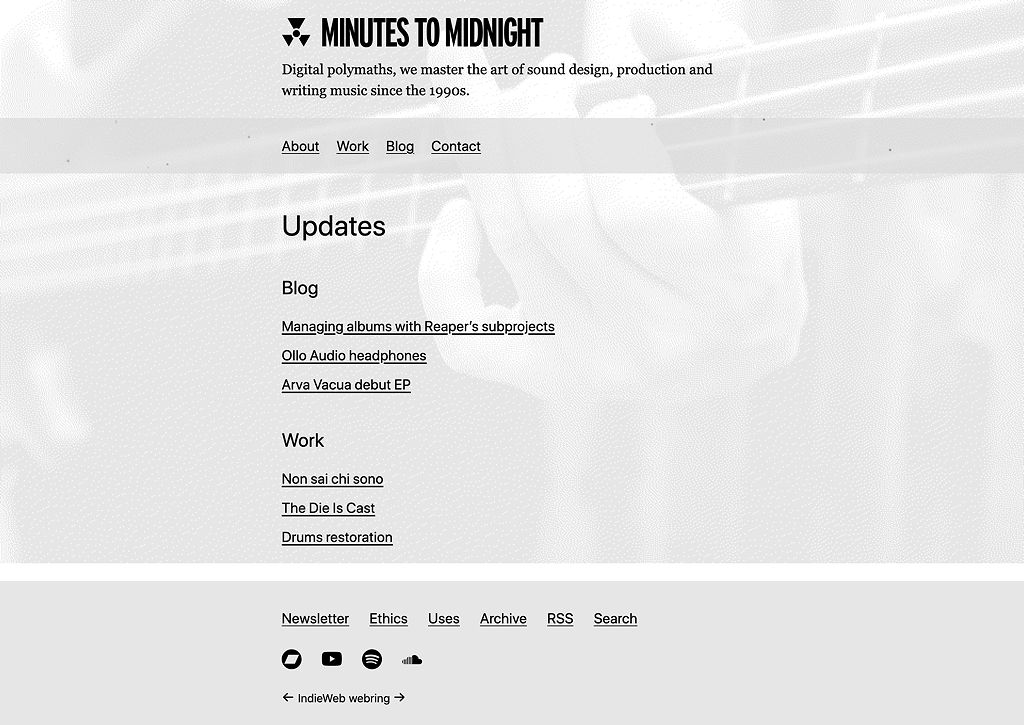
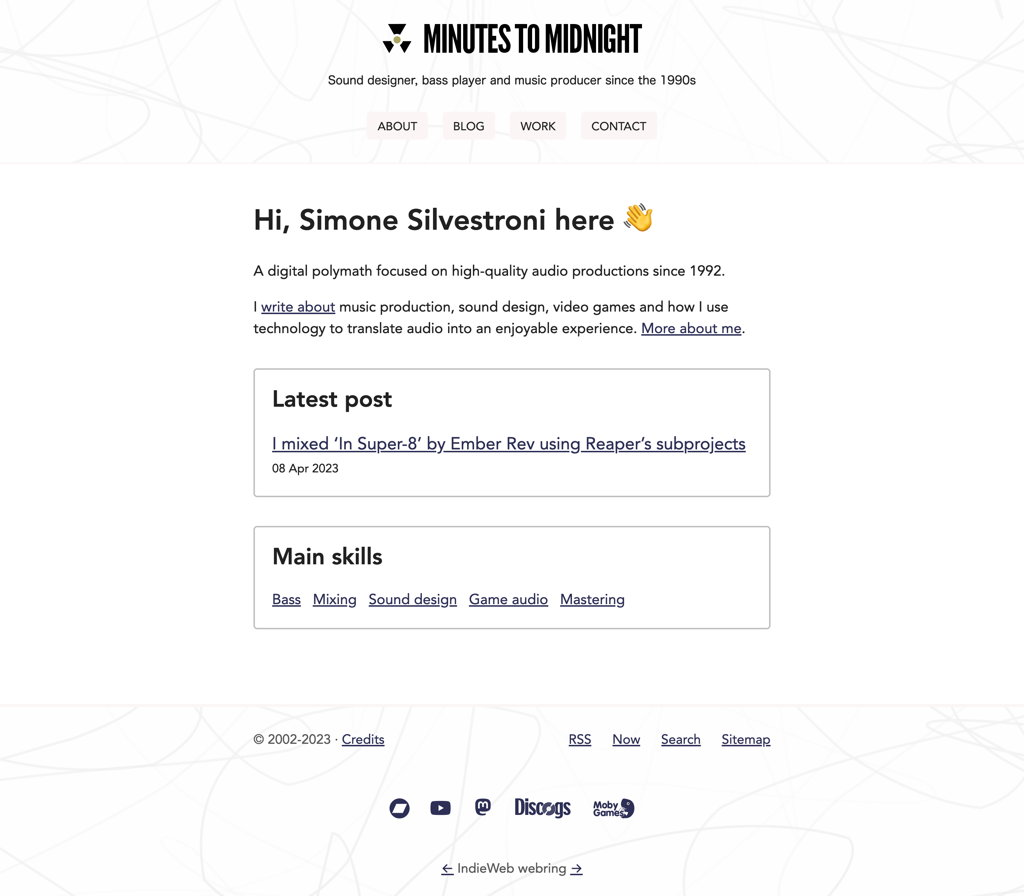
Refreshed projects

diff --git a/_webdesign/minutes-to-midnight.md b/_webdesign/minutes-to-midnight.md
@@ -9,26 +9,25 @@ skillset:
  - jekyll
  - liquid
  - markdown
- - sass
- - postCSS
+ - html
+ - css
  - netlify
- - node
- - bootstrap 5
  - git
  - bash
  - microformats
  - webmentions
+ - indieweb
 description: 'Why my current website, built with Jekyll and Netlify, eclipses the previous one on IA, performance, sustainability and maintenance.'
 excerpt: false
 summary: '<strong>Migrating from WordPress</strong> to a static site generator has been a blessing. In this case study, I explain why my current website, built on Jekyll and hosted on Netlify, eclipses the previous one on <abbr title="Information Architecture">IA</abbr>, performance, sustainability and maintenance.'
 toc: true
 featimage: true
 featimage-url: '/assets/images/minutes-to-midnight.jpg'
-featimage-height: '574'
+featimage-height: '896'
 performance: true
 googlescore: '100'
 speedindex: '0.4 seconds'
-pageweight: '100Kb (uncompressed)'
+pageweight: '63Kb (uncompressed)'
 site-is-live: true
 live-url: 'https://minutestomidnight.co.uk'
 permalink: '/projects/web-design/minutes-to-midnight/'
@@ -64,36 +63,36 @@ To avoid too many SEO issues, I used a redirection feature provided by Netlify i
 https://blog.minutestomidnight.co.uk/* https://minutestomidnight.co.uk/blog/:splat 301!
 ```
 
-I then [proceeded to importing](https://import.jekyllrb.com/docs/wordpress/) posts and pages. Since I decided to refactor taxonomy, I bypassed it. A basic Jekyll-based website has a simple directory tree. In my case (I'm omitting redundant and subsequent additions):
+I then [proceeded to importing](https://import.jekyllrb.com/docs/wordpress/) posts and pages. A basic Jekyll website has a simple directory tree. In my case (I'm omitting redundant and subsequent additions):
 
 ```
 . 
 ├── 📂 _data
 │    ├── 📄 nav-main.yml
 │    ├── 📄 nav-social.yml
-│    └── 📄 <etc>
+│    └── 📄 [...]
 ├── 📂 _drafts
 │    ├── 📝 test.md
-│    └── 📝 <etc>
+│    └── 📝 [...]
 ├── 📂 _includes
-│    ├── 📄 pattern-button.md
-│    ├── 📄 site-seo.html
-│    └── 📄 <etc>
+│    ├── 📄 pattern-figure.md
+│    ├── 📄 site-header.html
+│    └── 📄 [...]
 ├── 📂 _layouts
 │    ├── 📄 blog.html
 │    ├── 📄 default.html
-│    └── 📄 <etc>
+│    └── 📄 [...]
 ├── 📂 _pages
 │    ├── 📂 projects
 │    │    ├── 📝 index.md
 │    │    └── 📝 <etc>
 │    ├── 📝 about.md
 │    ├── 📝 archive.md
-│    └── 📝 <etc>
+│    └── 📝 [...]
 ├── 📂 _posts
 │    ├── 📝 2021-08-13-berlin-91.md
 │    ├── 📝 2022-03-02-bandcamp-joins-epicgames.md
-│    └── 📝 <etc>
+│    └── 📝 [...]
 ├── 📁 _site
 ├── 📂 assets
 │    ├── 📂 css
@@ -101,17 +100,9 @@ I then [proceeded to importing](https://import.jekyllrb.com/docs/wordpress/) pos
 │    │    └── 📄 m2m.min.css
 │    ├── 📂 images
 │    │    ├── 🌠 m2m-og-image.jpg
-│    │    ├── 🌠 watercolor.png
-│    │    └── 🌠 <etc>
+│    │    └── 🌠 [...]
 │    └── 📁 js
-├── 📂 category
 ├── 📂 tag
-├── 📂 sass
-│    ├── 📁 bootstrap
-│    ├── 📄 _m2m-functions.scss
-│    ├── 📄 _m2m-theme.scss
-│    ├── 📄 _<etc>
-│    └── 📄 m2m.scss
 ├── 📄 .gitignore
 ├── 📝 404.html
 ├── 📄 _config.yml
@@ -119,7 +110,8 @@ I then [proceeded to importing](https://import.jekyllrb.com/docs/wordpress/) pos
 ├── 🌠 favicon.ico
 ├── 📄 Gemfile
 ├── 📝 index.html
-├── 📄 package.json
+├── 📄 robots.txt
+├── 📄 sitemap.xml
 .
 
 ```
@@ -154,7 +146,7 @@ An array of components are collected in the `_includes/` folder. They can be sit
 My simple module to embed YouTube videos, called `pattern-video.html`:
 
 ```liquid
-{% raw %}<div class="video iframe-container{{ include.margin | default: "my-5" | prepend: ' ' }}">
+{% raw %}<div class="video iframe-container">
   <iframe loading="lazy" src="https://www.youtube-nocookie.com/embed/{{ include.id }}" frameborder="0" allowfullscreen title="{{ include.title | default: "Video" }}"></iframe>
 </div>{% endraw %}
 ```
@@ -181,7 +173,7 @@ Posts, notes, pages and projects are written in Markdown. Jekyll's [Kramdown](ht
 
 ## Design
 
-The theme is handcrafted by applying styles to the layouts. I'm using a subset of Bootstrap's SASS source as a base, with my theme and functionality built on top of it. I'm planning to ditch Bootstrap in the near future for a custom-made micro framework written in pure traditional CSS with a utility-first classes approach. Once the SASS is compiled, the build process takes care of various optimizations. I only load the minified stylesheet on production:
+The theme is handcrafted by applying styles to the layouts. I'm using [Simple CSS](https://simplecss.org) as a base, with my custom components built in plain CSS on top of it. I only load a minified stylesheet on production:
 
 ```html
 {% raw %}{% if jekyll.environment == "production" -%}
@@ -227,24 +219,18 @@ I get into proper SEO territory next, by including `site-seo.html`, which is mad
 - [Open Graph](https://ogp.me/). This is the content appearing in the 'card' which unfurls when links from my website are shared to Facebook, LinkedIn, Twitter and instant messengers like Telegram or WhatsApp. I check for `description` and the presence of a featured image, again with fallbacks.
   ```html
   {% raw %}<!-- Open graph -->
-  <meta property="og:title" content="{%- include site-meta-title.html -%}" />
-  <meta property="og:url" content="{{ page.url | prepend: site.url }}" />
-  <meta property="og:type" content="website" />
-  <meta property="og:site_name" content="{{ site.title }}" />
-  <meta property="og:description" content="{% if page.description %}{{ page.description }}{% elsif note.description %}{{ note.description }}{% else %}{{ site.description }}{% endif %}" />
-  <meta property="og:image" content="{% if page.featimage %}{{ site.url }}{{ page.featimage-url }}{% else -%}{{ site.logo | prepend: site.url }}{% endif %}" />
+  <meta property="og:title" content="{%- include site-meta-title.html -%}">
+  <meta property="og:url" content="{{ page.url | prepend: site.url }}">
+  <meta property="og:type" content="website">
+  <meta property="og:site_name" content="{{ site.title }}">
+  <meta property="og:description" content="{% if page.description %}{{ page.description }}{% elsif note.description %}{{ note.description }}{% else %}{{ site.description }}{% endif %}">
+  <meta property="og:image" content="{% if page.featimage %}{{ site.url }}{{ page.featimage-url }}{% else -%}{{ site.logo | prepend: site.url }}{% endif %}">
   <!-- LinkedIn -->
-  <meta prefix="og: https://ogp.me/ns#" property="og:title" content="{%- include site-meta-title.html -%}" />
-  <meta prefix="og: https://ogp.me/ns#" property="og:type" content="website" />
-  <meta prefix="og: https://ogp.me/ns#" property="og:description" content="{% if page.description %}{{ page.description }}{% elsif note.description %}{{ note.description }}{% else %}{{ site.description }}{% endif %}" />
-  <meta prefix="og: https://ogp.me/ns#" property="og:image" content="{% if page.featimage %}{{ site.url }}{{ page.featimage-url }}{% else -%}{{ site.logo | prepend: site.url }}{% endif %}" />
-  <meta prefix="og: https://ogp.me/ns#" property="og:url" content="{{ page.url | prepend: site.url }}" />
-  <!-- Twitter integration -->
-  <meta name="twitter:card" content="summary_large_image">
-  <meta name="twitter:title" content="{%- include site-meta-title.html -%}" />
-  <meta name="twitter:url" content="{{ site.url }}{{ page.url }}" />
-  <meta name="twitter:description" content="{% if page.description %}{{ page.description }}{% elsif note.description %}{{ note.description }}{% else %}{{ site.description }}{% endif %}" />
-  <meta name="twitter:image" content="{% if page.featimage %}{{ site.url }}{{ page.featimage-url }}{% else -%}{{ site.logo | prepend: site.url }}{% endif %}" />{% endraw %}
+  <meta prefix="og: https://ogp.me/ns#" property="og:title" content="{%- include site-meta-title.html -%}">
+  <meta prefix="og: https://ogp.me/ns#" property="og:type" content="website">
+  <meta prefix="og: https://ogp.me/ns#" property="og:description" content="{% if page.description %}{{ page.description }}{% elsif note.description %}{{ note.description }}{% else %}{{ site.description }}{% endif %}">
+  <meta prefix="og: https://ogp.me/ns#" property="og:image" content="{% if page.featimage %}{{ site.url }}{{ page.featimage-url }}{% else -%}{{ site.logo | prepend: site.url }}{% endif %}">
+  <meta prefix="og: https://ogp.me/ns#" property="og:url" content="{{ page.url | prepend: site.url }}" />{% endraw %}
   ```
 - [Schema](https://schema.org/docs/documents.html) is "a collaborative, community activity with a mission to create, maintain, and promote schemas for structured data on the Internet, on web pages, in email messages, and beyond."
   ```html
@@ -277,7 +263,7 @@ I get into proper SEO territory next, by including `site-seo.html`, which is mad
     },
     "sameAs": [
       "https://indieweb.social/@m2m",
-      "https://uk.linkedin.com/in/minutes2mid/",
+      "https://uk.linkedin.com/in/simonesilvestroni/",
       "https://github.com/simonesilvestroni/",
     ],
     {%- if page.featimage %}
@@ -303,48 +289,18 @@ Without using Yoast or any other SEO plug-ins, several benchmarks gives optimal 
 
 ## File management
 
-Since I don't need any set up for Apache, PHP or MySQL, file management is extremely easy. Using GitHub as a versioning system, my local website directory is a perfect mirror of the remote repository. Again, all my images, CSS or other assets are kept together with the source code. No external database to be backed up, no extra maintenance.
+Since I don't need any setup for Apache, PHP or MySQL, file management is extremely easy. Using GitHub as a versioning system, my local website directory is a perfect mirror of the remote repository. Again, all my images, CSS or other assets are kept together with the source code. No external database to be backed up, no extra maintenance.
 
 ## Build process
-In place of Jekyll's internal build tasks, I use <kbd>Node.js</kbd>. The following is the `scripts` section in my `package.json` configuration:
+I use [Bash](https://www.gnu.org/software/bash/) to run Jekyll's internal build tasks, using appropriate aliases in my `.bash_profile` for regular localhost preview, serving drafts and future posts.
 
-```json
-"scripts": {
-  "serve": "bundle exec jekyll serve --livereload",
-  "servedraft": "bundle exec jekyll serve --drafts --livereload",
-  "servefuture": "bundle exec jekyll serve --drafts --future --livereload",
-  "watch": "sass --watch sass:assets/css",
-  "start": "npm-run-all --parallel serve watch",
-  "css-compile": "sass --style expanded --embed-sources --no-error-css sass/:assets/css/",
-  "css-purge": "purgecss --css \"assets/css/m2m.css\" --content \"_site/**/*.html\" --safelist active --output \"assets/css\"",
-  "css-prefix": "npx postcss \"assets/css/m2m.css\" --use autoprefixer -d assets/css/",
-  "css-minify": "cleancss -O1 --format breakWith=lf --with-rebase --source-map-inline-sources --output assets/css/ --batch --batch-suffix \".min\" \"assets/css/*.css\" \"!assets/css/*.min.css\"",
-  "css": "npm-run-all css-compile css-purge css-prefix css-minify"
-}
-```
-
-### Serving locally
-
-I've recently merged the two tasks `serve` and `watch` (respectively running the website and compiling CSS at every SASS edit). With the new collective task `start` I can run a single command to manage both in parallel. By creating an alias in my `.bash_profile`, I simply type <kbd>m2mrun</kbd>.
-
-I've also added scripts to see drafts and future posts before committing to git and deploy to production.
-
-### CSS
-
-1. `css-compile` renders SASS into plain CSS, which is what I use for local debugging.
-2. `css-purge` removes unused CSS code using [PostCSS](https://postcss.org/).
-3. `css-prefix` automatically adds vendor prefixes to non-standard CSS instructions.
-4. `css-minify` creates the final minified version for production.
-
-The above process brings my CSS from `337 KB` (including the `.css.map` file) down to `39 KB`.
-
-### Javascript
+## Javascript
 
 I don't compile nor minify Javascript because I only use it for search engine and webmentions, which I never need to edit.
 
 ## Performance, accessibility and sustainability
 
-I've been treating **performance as a design feature** for more than ten years. The complete size of the website is currently **40.4 MB**, which includes everything from source code to the images. It's a whopping `94.6%` reduction from before. 
+I've been treating **performance as a design feature** for more than ten years. The complete size of the website source code is currently `1.1 MB`, reaching a root total of `23 MB` including images and a `13 MB` PDF file. It's more than a `96%` reduction from before.
 
 What contributes to my Pagespeed and Lighthouse score of `100` on performance, accessibility and SEO?
 
@@ -355,7 +311,7 @@ What contributes to my Pagespeed and Lighthouse score of `100` on performance, a
 - Avoid Javascript when valid alternatives can be employed.
 - Multi-platform font stacks.
 - Optimization of static assets.
-- A fast server.
+- A fast and green server.
 
 I took care of removing files that are not needed on the live server, by adding a second `config-production.yml` which is called in my build command on Netlify. The final benchmarks:
 
@@ -388,7 +344,7 @@ Accessibility benchmarks:
 
 Sustainability notes:
 
-Only `0.02g of CO2` is produced every time someone visits the homepage. Cleaner than `98%` of [web pages tested](https://www.websitecarbon.com/website/minutestomidnight-co-uk/ "Visit Website carbon").
+Only `0.01g of CO2` is produced every time someone visits the homepage. Cleaner than `99%` of [web pages tested](https://www.websitecarbon.com/website/minutestomidnight-co-uk/ "Visit Website carbon").
 
 ## Search engine
 

diff --git a/_webdesign/responsive-photogallery-carousel.md b/_webdesign/responsive-photogallery-carousel.md
@@ -318,29 +318,7 @@ All tests after the new module was released gave stunning results: despite a tot
 
 {% include pattern-figure.html image="/assets/images/gallery-pagespeed-end-results-mobile.jpg" alt="Google Pagespeed results" width="920" height="611" %}
 
-### Local development
-
-Both our dev environments benefited from significant improvements:
-
-- The local file structure is now simplified and lighter.
-- `node_modules` went from 172 MB to 16 MB.
-- `package.json` shrinked to 44 lines of code, including the dependencies we use to run scripts and automation needed to build and optimize the websites:
-
-```json
-"devDependencies": {
-  "jekyll": "^3.0.0-beta1",
-  "sass": "^1.49.8",
-  "npm-run-all": "^4.1.5",
-  "clean-css": "^5.2.4",
-  "clean-css-cli": "^5.5.2",
-  "postcss": "^8.4.6",
-  "postcss-cli": "^9.1.0",
-  "autoprefixer": "^10.4.2",
-  "purgecss": "^4.1.3"
-}
-```
-
-## Full source code
+## Source code
 
 Check out my public gists for the three files:
 
